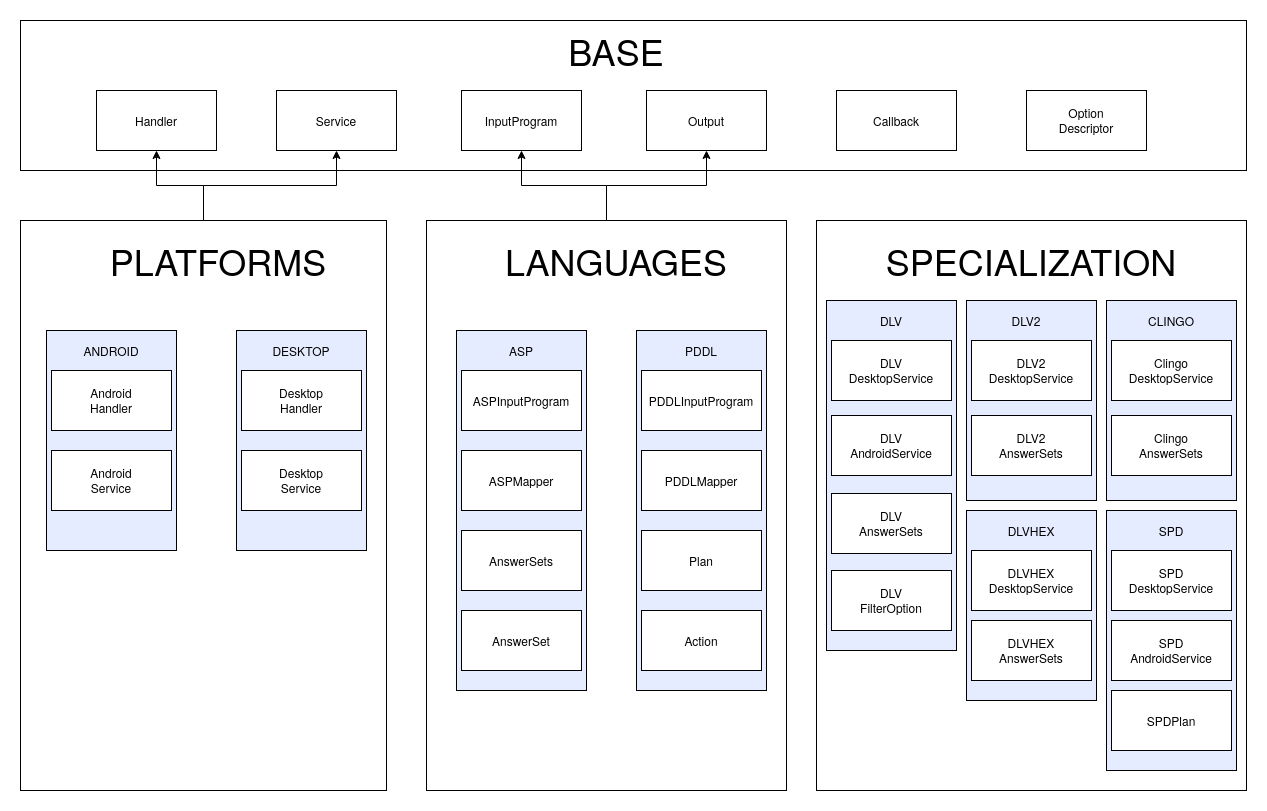
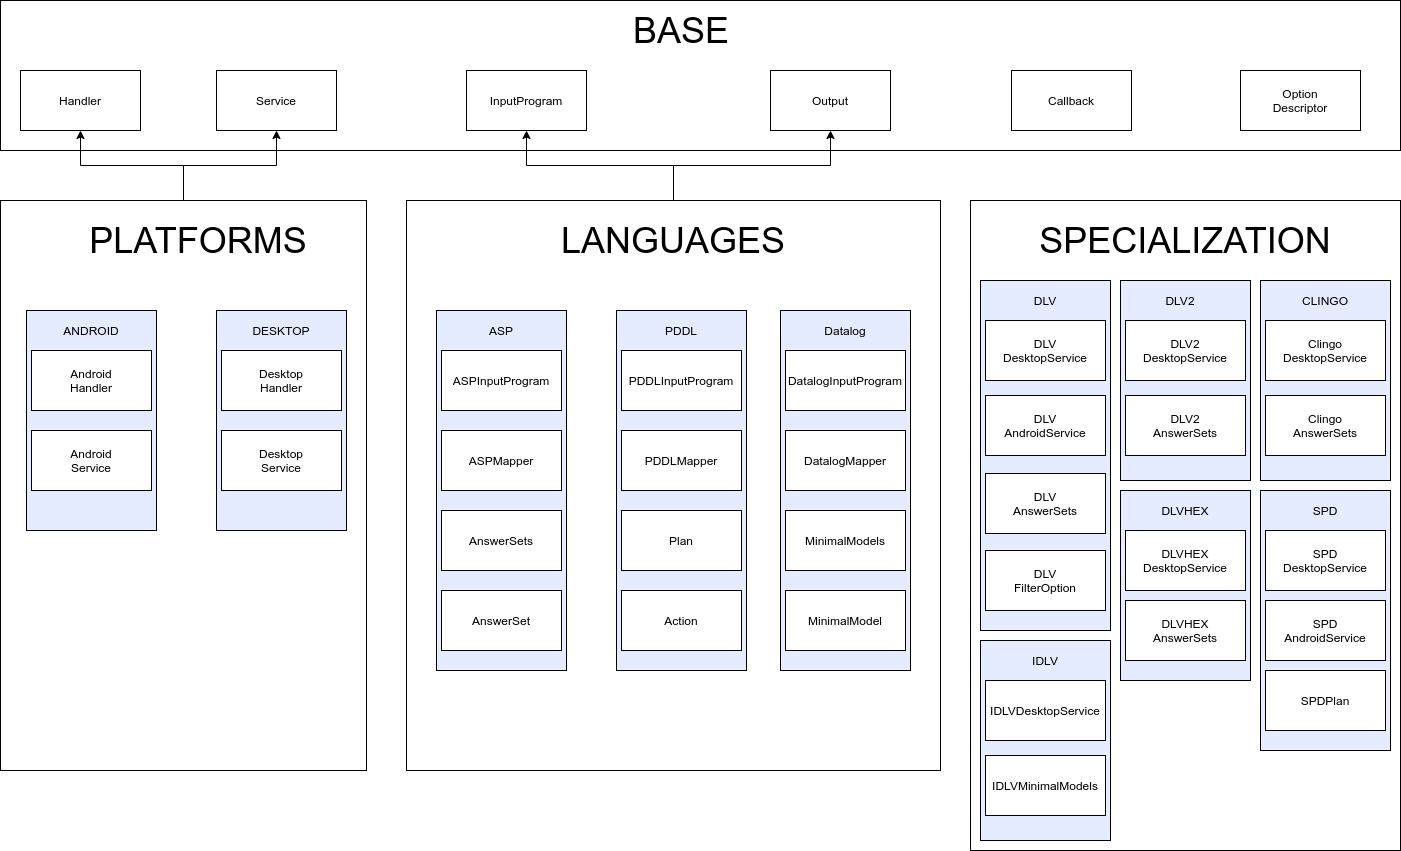
Updated site index and abstract arch diagrams
Textual references have been added to Datalog and I-DLV, and the abstract architecture diagrams have been updated to include I-DLV and Datalog new classes.

diff --git a/version_6x.html b/version_6x.html
@@ -112,7 +112,6 @@
                         <a class="dropdown-item" href="version_3x.html">Version 3x</a>
                         <a class="dropdown-item" href="version_4x.html">Version 4x</a>
                         <a class="dropdown-item" href="version_5x.html">Version 5x</a>
-                        <a class="dropdown-item" href="version_6x.html">Version 6x</a>
                     </div>
                 </li>
             </ul>
@@ -145,29 +144,26 @@
                     </p>
                     <hr class="my-4">
                     <p>
-                        <p>We currently provide 3 implementations (in <a href="https://www.java.com">Java</a>, in <a href="https://www.python.org">Python</a> and in <a href="https://docs.microsoft.com/en-us/dotnet/csharp/">C#</a>) 
-                            and ready-made libraries for the embedding several logic programming languages (mainly on the Desktop platform). In particular, we provide support for: </p>
-                            <ul>
-                            <li>ASP (Answer Set Programming) solvers<ul>
-                            <li><a href="http://www.dlvsystem.com/dlv">DLV</a> (also for the Android platform, for the Java language)</li>
-                            <li><a href="https://www.mat.unical.it/DLV2">DLV2</a> </li>
-                            <li><a href="https://potassco.org/clingo">clingo</a> </li>
-                            <li><a href="http://www.kr.tuwien.ac.at/research/systems/dlvhex/">DLVHEX</a></li>
-                            </ul>
-                            </li>
-                            </ul>
-                            <ul>
-                            <li>PDDL (Planning Domain Definition Language) <ul>
-                            <li>Cloud solver <a href="http://solver.planning.domains">Solver.Planning.Domains</a> (also for the Android platform, for the Java language).</li>
-                            </ul>
-                            </li>
-                            </ul>
-                            <ul>
-                            <li>Datalog<ul>
-                            <li><a href="https://github.com/DeMaCS-UNICAL/I-DLV">I-DLV</a> grounder</li>
-                            </ul>
-                            </li>
-                            </ul>                                                                  
+                        The framework can be implemented in a object-oriented programming language of choice, easing and guiding the generation of
+                        suitable libraries for the use of specific solvers on selected platforms. We currently provide 3
+                        implementations (in
+                        <a href="https://www.java.com">
+                            <strong>Java</strong>
+                        </a>, in
+                        <a href="https://www.python.org">
+                            <strong>Python</strong>
+                        </a> and in
+                        <a href="https://docs.microsoft.com/dotnet/csharp/language-reference/">
+                            <strong>C#</strong>
+                        </a>) and ready-made libraries for the embedding of the
+                        <em>ASP (Answer Set Programming)</em> solvers
+                        <a href="http://www.dlvsystem.com/dlv">DLV</a>,
+                        <a href="https://www.mat.unical.it/DLV2">DLV2</a>,
+                        <a href="https://potassco.org/clingo">clingo</a>,
+                        <a href="http://www.kr.tuwien.ac.at/research/systems/dlvhex/">DLVHEX</a> and the
+                        <em>PDDL (Planning Domain Definition Language)</em> cloud solver
+                        <a href="http://solver.planning.domains">Solver.Planning.Domains</a> (SPD) on the Desktop platform and of DLV and SPD on the Mobile (Android&trade;)
+                        one (available only for the Java version).
                     </p>
                     <p>
                         However, the framework has been designed to be easily extensible and adaptable to different solvers and platforms. It is
@@ -179,7 +175,7 @@
 
             <div class="alert alert-info" role="alert">
                 NOTE: this is the official site of versions
-                <strong>7</strong> of the EmbASP Framework. If you are looking for an older version, please check the last item in
+                <strong>6</strong> of the EmbASP Framework. If you are looking for an older version, please check the last item in
                 the top menu.
             </div>
         </div>
@@ -204,6 +200,8 @@
             </div>
         </div>
 
+
+        
         <div class="row">
             <div class="col">
                 <h2 id="Documentation">Documentation</h2>
@@ -224,7 +222,7 @@
                         </p>
 
                         <figure style="padding-bottom: 1em">
-                            <img class="img-fluid mx-auto d-block" src="img/abstract_architecture.svg" alt="Abstract Architecture" onerror="this.src='img/abstract_architecture.png'">
+                            <img class="img-fluid mx-auto d-block" src="img/abstract_architecture_v6.svg" alt="Abstract Architecture" onerror="this.src='img/abstract_architecture_v6.png'">
                             <figcaption class="text-center">
                                 Abstract Architecture of the framework.
                                 <br /> Blocks overshadowed in white depict the abstract components of the framework, while
@@ -299,11 +297,6 @@
                             <code>AnswerSet</code>, represents the
                             <code>Output</code> for ASP. Moreover the
                             <code>ASPMapper</code> allow the management of ASP input facts and answer sets via objects.
-                            The Datalog sub-module resembles the ASP sub-module very closely: 
-                            <code>DatalogInputProgram</code> is the Datalog equivalent of <code>ASPInputProgram</code>,
-                            <code>MinimalModels</code> is the equivalent of <code>AnswerSets</code>,
-                            <code>MinimalModel</code> is the equivalent of <code>AnswerSet</code>, 
-                            and <code>DatalogMapper</code> is the equivalent of <code>ASPMapper</code>.
                             Similarly, the sub-module PDDL includes
                             <code>PDDLInputProgram</code>,
                             <code>Action</code>,
@@ -322,11 +315,11 @@
                         </p>
                         <p>
                             In particular, this module contains specific extensions for the different solvers of the <code>DesktopService</code> (
-                            <code>DLVDesktopService</code>, <code>DLV2DesktopService</code>, <code>IDLVDesktopService</code>, <code>DLVHEXDesktopService</code>, 
+                            <code>DLVDesktopService</code>, <code>DLV2DesktopService</code>, <code>DLVHEXDesktopService</code>, 
                             <code>ClingoDesktopService</code> and <code>SPDDesktopService</code>) and the <code>AndroidService</code> (
                             <code>DLVAndroidService</code>, <code>DLV2AndroidService</code> and <code></code>). There are also the extensions of the 
                             <code>AnswerSets</code> for ASP language (<code>DLVAnswerSets</code>, <code>DLV2AnswerSets</code>, <code>DLVHEXAnswerSets</code> and 
-                            <code>ClingoAnswerSets</code>) of the <code>Plan</code> for PDDL language (<code>SPDPlan</code>), and of the <code>MinimalModels</code> for the Datalog language (<code>IDLVMinimalModels</code>).
+                            <code>ClingoAnswerSets</code>) and of the <code>Plan</code> for PDDL language (<code>SPDPlan</code>).
                         </p>
                     </div>
                 </div>
@@ -338,7 +331,7 @@
                     <div class="card-body">
                         <p>
                             For a complete documentation regarding EmbASP, visit our page on
-                            <a href="https://embasp.readthedocs.io/en/latest/">readthedocs.org</a>.
+                            <a href="https://embasp.readthedocs.io/en/v6.0.0/">readthedocs.org</a>.
                         </p>
                         <p>
                             It provides a detailed description about EmbASP implementations and some examples of EmbASP usage.
